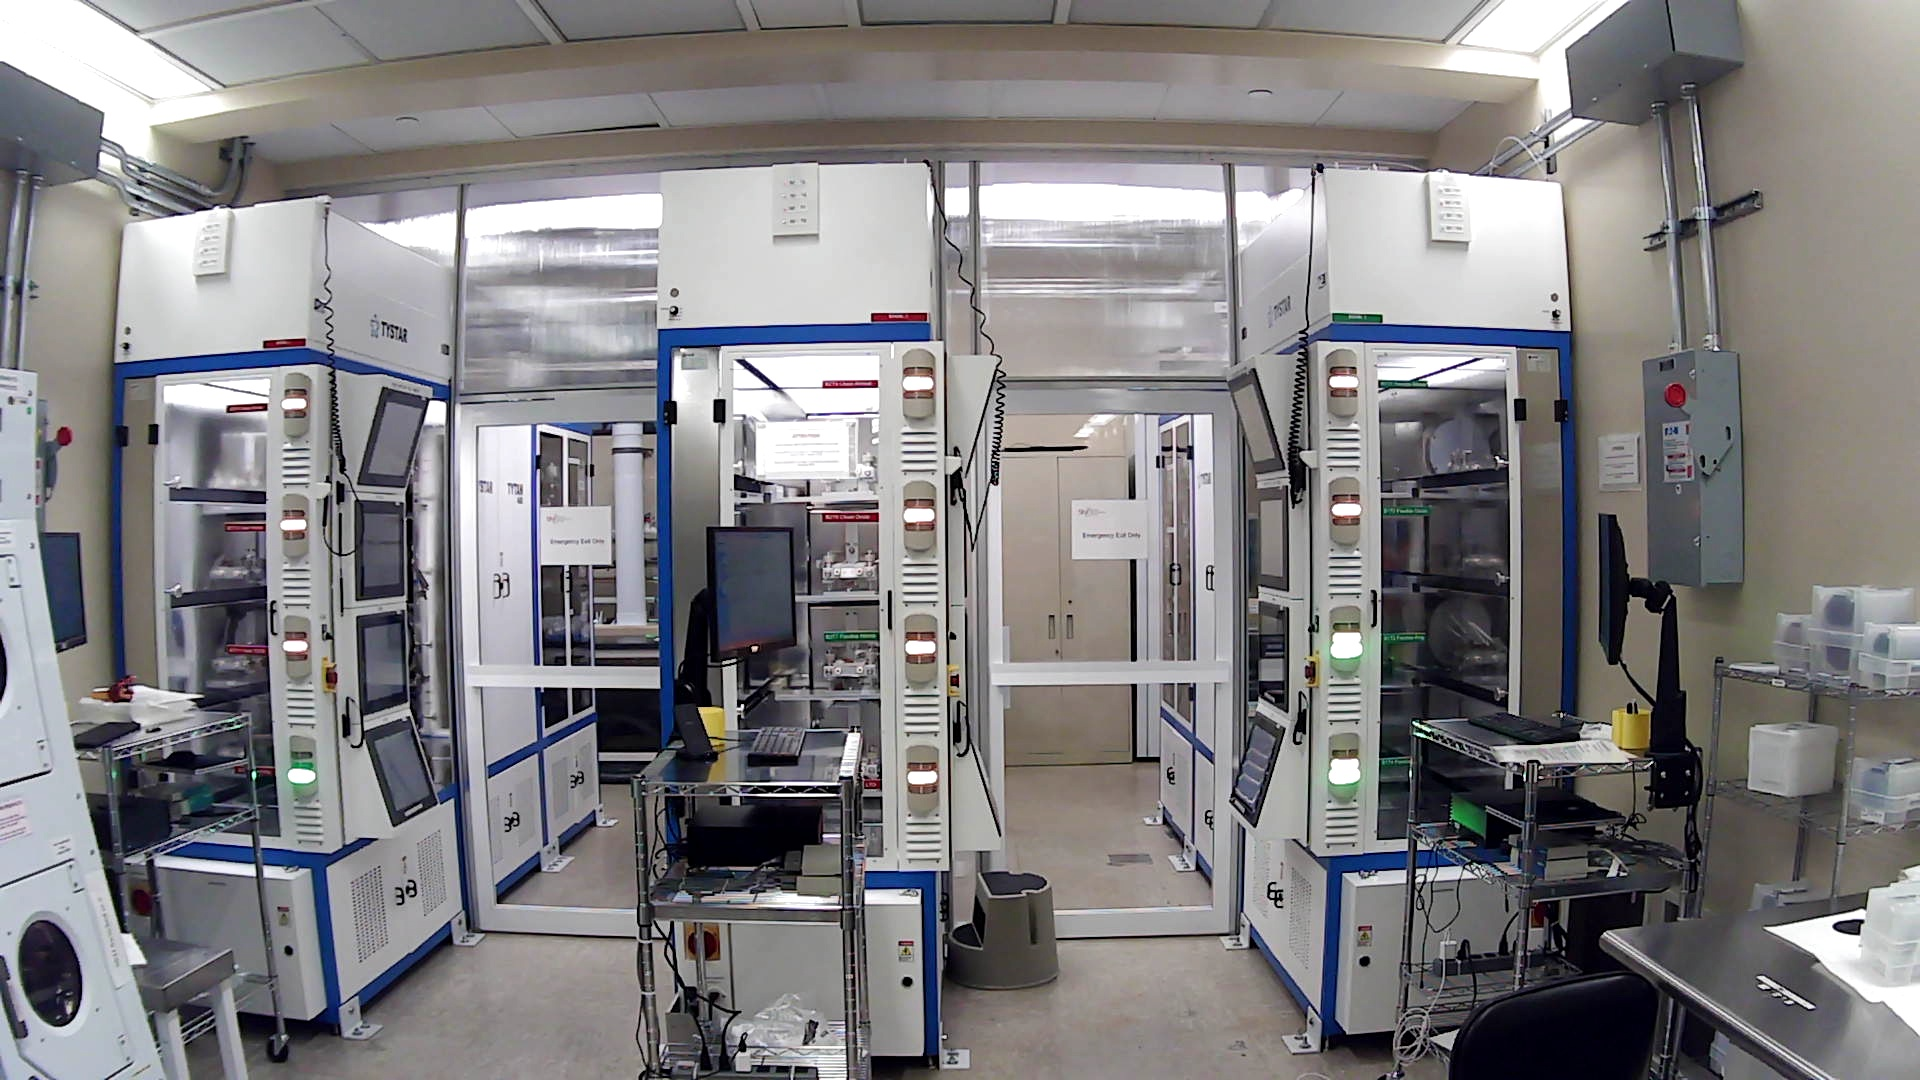
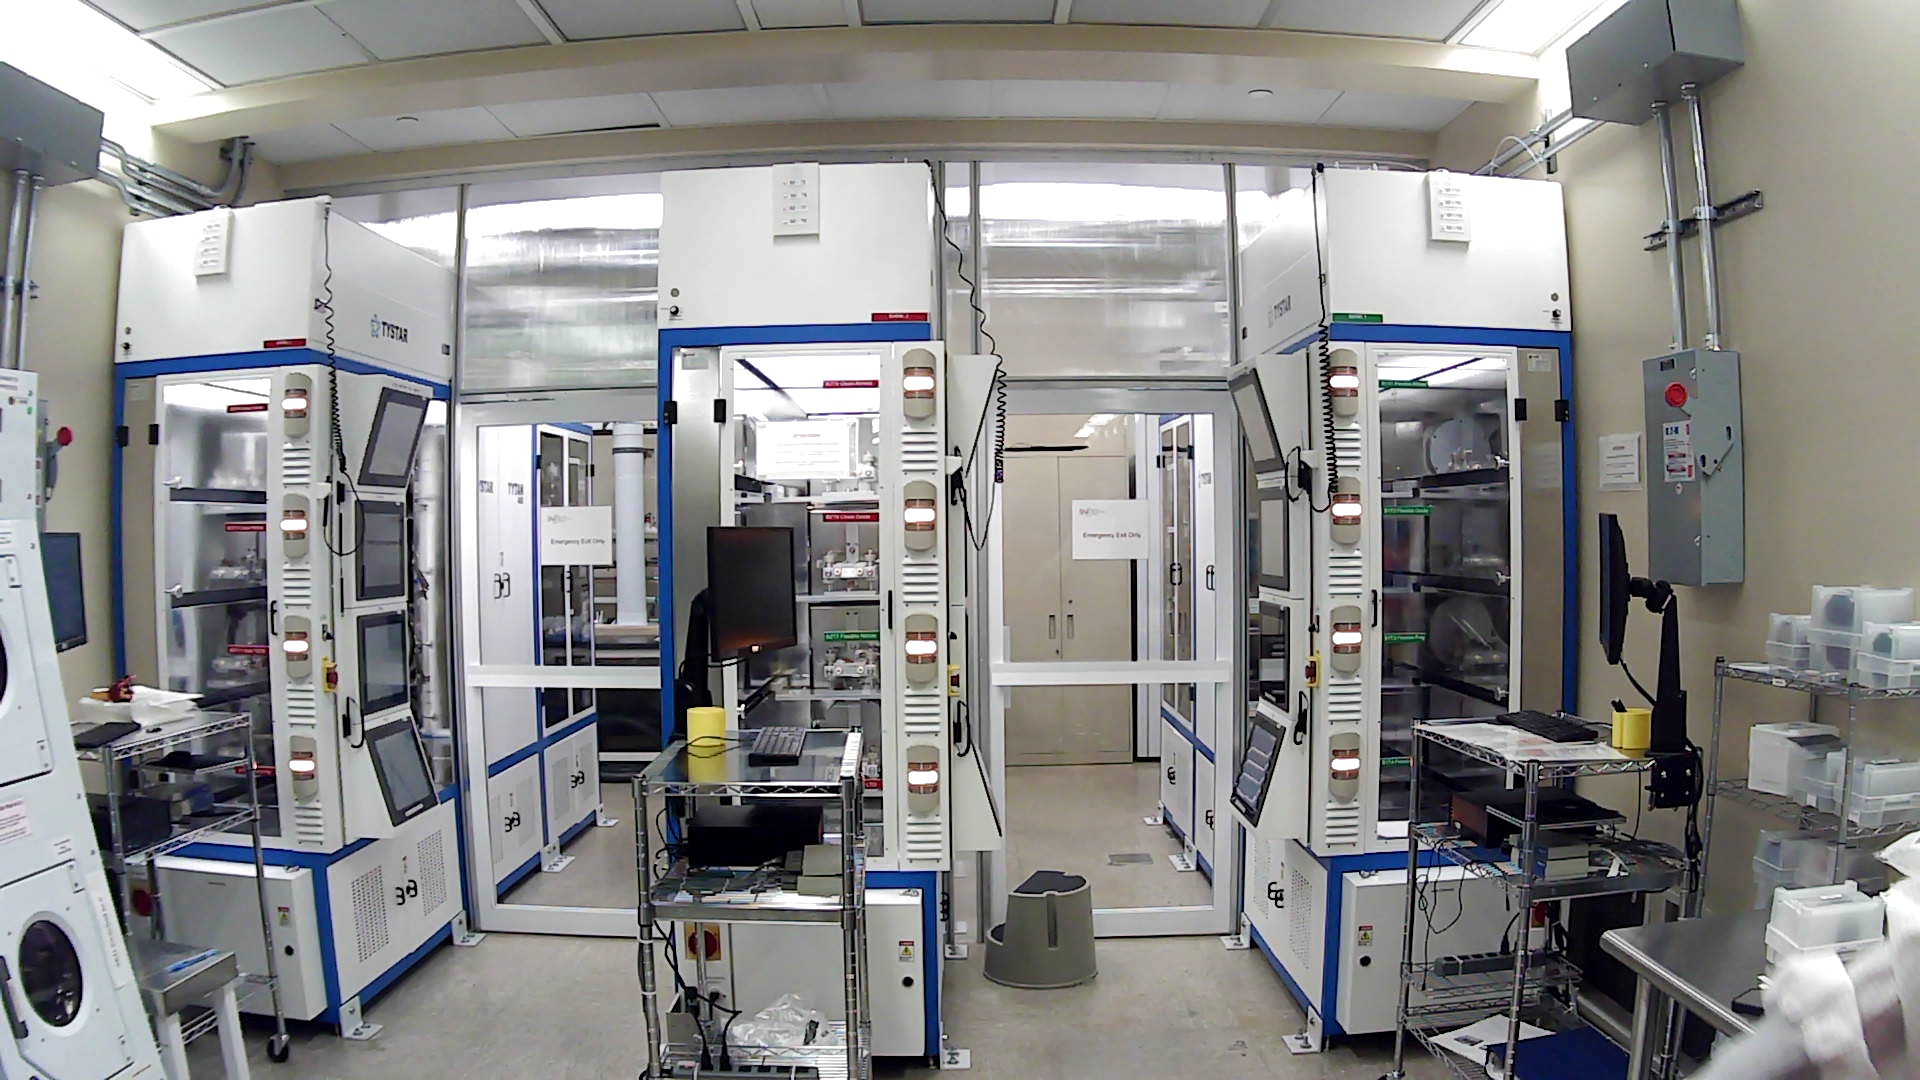
added erode function, checks 4 neighbor pixels & ! all 255 then source pixel = 0

diff --git a/colorDetection/main.py b/colorDetection/main.py
@@ -39,8 +39,10 @@ def detectLight(image, tube):
 
     mask_combined = cv2.inRange(hsv, lower_white, upper_white)
 
+    kernel = np.ones((2, 2), np.uint8)
+    mask_eroded = cv2.erode(mask_combined, kernel, iterations=1)
 
-    mask_bgr = cv2.cvtColor(mask_combined, cv2.COLOR_GRAY2BGR)
+    mask_bgr = cv2.cvtColor(mask_eroded, cv2.COLOR_GRAY2BGR)
 
     height, width = mask_bgr.shape[:2]
 
@@ -53,6 +55,9 @@ def detectLight(image, tube):
     third = height // 3
     cv2.line(mask_bgr, (0, third), (width, third), border_color, 1)
     cv2.line(mask_bgr, (0, third * 2), (width, third * 2), border_color, 1)
+
+
+
 
     save_path = f"preprocess/processedImage{tube}.png"
     cv2.imwrite(save_path, mask_bgr)
@@ -124,13 +129,13 @@ def classifyColor(image, tube):
     green = False
 
  
-    if(top_sum > 135):
+    if(top_sum > 100):
         # print(f"tube {tube+1}: RED ON")
         red = True
-    if(middle_sum > 135):
+    if(middle_sum > 100):
         # print(f"tube {tube+1}: ORANGE ON")
         orange =  True
-    if(bottom_sum > 135):
+    if(bottom_sum > 100):
         # print(f"tube {tube+1}: GREEN ON")
         green = True
 
@@ -142,7 +147,7 @@ def classifyColor(image, tube):
         if orange and green:
             print(f"Tube {tube+1}: Waiting for USER Input")
         elif green and red:
-            print(f"Tube {tube+1}: Ready to load  wafers")
+            print(f"Tube {tube+1}: Waiting for USER Input")
         else:
             if red:
                 print(f"Tube {tube+1}: ERROR! CONTACT STAFF")
@@ -187,6 +192,7 @@ def capture1080p():
     cap.set(cv2.CAP_PROP_FRAME_WIDTH, 1920)
     cap.set(cv2.CAP_PROP_FRAME_HEIGHT, 1080)
 
+
     ret, frame = cap.read()
 
     if not ret:
@@ -214,6 +220,8 @@ def capture1080p():
 # configure_points()
 
 for x in range(1):
+    capture1080p()
+    capture1080p()
     capture1080p()
     for i in range(0, 12):
         croppedImg = cropStaticFurnaces("images/highres.jpg", i)
